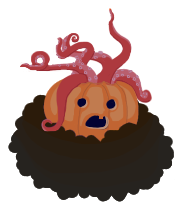
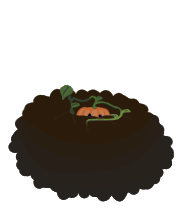
tools function

Changed region(s): [[0.1111, 0.0286, 0.8611, 0.6857]]

diff --git a/js/main.js b/js/main.js
@@ -5,18 +5,18 @@ const app = Vue.createApp({
             activeTool: null,
 
             plotsFarm:[
-                { id: 1, planted: true, stage: 3, image: './img/spideyFlower_stage3.png'},
-                { id: 2, planted: true, stage: 3, image: './img/spideyFlower_stage3.png'},
-                { id: 3, planted: true, stage: 3, image: './img/spideyFlower_stage3.png'},
-                { id: 4, planted: true, stage: 3, image: './img/spideyFlower_stage3.png'},
-                { id: 5, planted: true, stage: 3, image: './img/spideyFlower_stage3.png'},
-                { id: 6, planted: true, stage: 3, image: './img/spideyFlower_stage3.png'},
-                { id: 7, planted: true, stage: 3, image: './img/spideyFlower_stage3.png'},
-                { id: 8, planted: true, stage: 3, image: './img/spideyFlower_stage3.png'},
-                { id: 9, planted: true, stage: 3, image: './img/spideyFlower_stage3.png'},
-                { id: 10, planted: true, stage: 3, image: './img/spideyFlower_stage3.png'},
-                { id: 11, planted: true, stage: 3, image: './img/spideyFlower_stage3.png'},
-                { id: 12, planted: true, stage: 3, image: './img/spideyFlower_stage3.png'},
+                { id: 1, planted: false, stage: 0, fertilized: false, water: false, image: './img/plot_empty.png'},
+                { id: 2, planted: false, stage: 0, fertilized: false, water: false, image: './img/plot_empty.png'},
+                { id: 3, planted: false, stage: 0, fertilized: false, water: false, image: './img/plot_empty.png'},
+                { id: 4, planted: false, stage: 0, fertilized: false, water: false, image: './img/plot_empty.png'},
+                { id: 5, planted: false, stage: 0, fertilized: false, water: false, image: './img/plot_empty.png'},
+                { id: 6, planted: false, stage: 0, fertilized: false, water: false, image: './img/plot_empty.png'},
+                { id: 7, planted: false, stage: 0, fertilized: false, water: false, image: './img/plot_empty.png'},
+                { id: 8, planted: false, stage: 0, fertilized: false, water: false, image: './img/plot_empty.png'},
+                { id: 9, planted: false, stage: 0, fertilized: false, water: false, image: './img/plot_empty.png'},
+                { id: 10, planted: false, stage: 0, fertilized: false, water: false, image: './img/plot_empty.png'},
+                { id: 11, planted: false, stage: 0, fertilized: false, water: false, image: './img/plot_empty.png'},
+                { id: 12, planted: false, stage: 0, fertilized: false, water: false, image: './img/plot_empty.png'},
             ],
 
             inventory: [
@@ -58,9 +58,8 @@ const app = Vue.createApp({
             cash: 0,
 
             plantList: [
-                { id: 1, type: 'seed1', growthStage: 0, maxGrowthStage: 2, imgStages: ['./img/spideyFlower_stage1.png', './img/spideyFlower_stage2.png', './img/spideyFlower_stage3.png'] },
-                { id: 2, type: 'seed2', growthStage: 0, maxGrowthStage: 5, imgStages: ['./img/plant2_stage0.png', './img/plant2_stage1.png', './img/plant2_stage2.png', './img/plant2_stage3.png', './img/plant2_stage4.png', './img/plant2_stage5.png'] },
-                { id: 3, type: 'seed3', growthStage: 0, maxGrowthStage: 4, imgStages: ['./img/plant3_stage0.png', './img/plant3_stage1.png', './img/plant3_stage2.png', './img/plant3_stage3.png'] },
+                { id: 1, type: 'spideyFlower', imgStages: ['./img/spideyFlower_stage1.png', './img/spideyFlower_stage2.png', './img/spideyFlower_stage3.png'] },
+                { id: 2, type: 'squidPumpkin', imgStages: ['./img/squidPumpkin_stage1.png', './img/squidPumpkin_stage2.png', './img/squidPumpkin_stage3.png'] },
             ],
 
             cycleDayNight: 'night',
@@ -136,9 +135,51 @@ const app = Vue.createApp({
         }
         },
 
-        removePlant(){
-            
+        removePlant(plotId) {
+            if(this.activeTool !== "scythe") return;
+
+            if(this.plotsFarm.find(plot => plot.id === plotId)){
+                this.plotsFarm.find(plot => plot.id === plotId).planted = false;
+                this.plotsFarm.find(plot => plot.id === plotId).image = './img/plot_empty.png';
+            }
+
         },
 
+        plantInPlot(plotId, typePlant){
+           if(this.activeTool !== "plant") return;
+
+            console.log("Planting in plot:", plotId);
+
+            if(this.plotsFarm.find(plot => plot.id === plotId)){
+                this.plotsFarm.find(plot => plot.id === plotId).planted = true;
+                const plant = this.plantList.find(plant => plant.type === typePlant).imgStages[0]; // por ahora fija spideyFlower
+                this.plotsFarm.find(plot => plot.id === plotId).image = plant;
+                this.plotsFarm.find(plot => plot.id === plotId).stage=1;
+            } 
+        },
+
+        fertilizePlot(plotId, typePlant){
+            if(this.activeTool !== "fertilizer") return;
+
+            if(this.plotsFarm.find(plot => plot.id === plotId)){
+                const stagePlot = this.plotsFarm.find(plot => plot.id === plotId).stage;
+                if (stagePlot >= 3) return; // ya esta en la etapa maxima
+                const plant = this.plantList.find(plant => plant.type === typePlant).imgStages[stagePlot]; // por ahora fija spideyFlower
+                this.plotsFarm.find(plot => plot.id === plotId).image = plant;
+                this.plotsFarm.find(plot => plot.id === plotId).stage += 1;
+                this.plotsFarm.find(plot => plot.id === plotId).fertilized = true;
+
+            }
+        },
+
+        waterPlot(plotId){
+            if(this.activeTool !== "bucket") return;
+
+            if(this.plotsFarm.find(plot => plot.id === plotId)){
+                this.plotsFarm.find(plot => plot.id === plotId).water = true;
+            }
+
+            console.log("Watering plot:", plotId);
+        }
     }
 });

diff --git a/js/components/views.js b/js/components/views.js
@@ -47,22 +47,18 @@ app.component('views-game', {
         }
         ,
 
-        tryRemovePlant(idex) {
-            // funciona si la herramienta esta activa 
-            if (this.activeTool !== "scythe") return;
+        removePlant(plotId) {
+            this.$emit("remove-plant", plotId);
+        },
 
-            // obtener la imagen 
-            const img = idex.currentTarget || idex.target;
-
-            // poner clase para la animacion y luego quitar el elemento
-            img.classList.add("removing");
-            setTimeout(() => {
-                // en vez de eliminar el nodo (que hace que el grid se reordene),
-                // ocultamos la imagen para que el espacio quede reservado.
-                img.classList.remove("removing");
-                img.style.visibility = "hidden"; // mantiene el espacio en el layout
-                img.style.pointerEvents = "none"; // evitar futuros clicks
-            }, 180);
+        plantInPlot(plotId, typePlant){ 
+            this.$emit("plant-in-plot", plotId, typePlant);
+        },
+        fertilizePlot(plotId, typePlant){
+            this.$emit("fertilize-plot", plotId, typePlant);
+        },
+        waterPlot(plotId){
+            this.$emit("water-plot", plotId);
         }
 
     },
@@ -127,7 +123,11 @@ app.component('views-game', {
         <farm-panel 
         :plots-farm="plotsFarm"
         @tool-selected='selectTool' 
-        @selected-view="updateView" ></farm-panel>
+        @selected-view="updateView"
+        @remove-plant="removePlant"
+        @plant-in-plot="plantInPlot"
+        @fertilize-plot="fertilizePlot"
+        @water-plot="waterPlot"
     </div>
 
     <!-- Cauldron Panel -->

diff --git a/js/components/game/farmPanel.js b/js/components/game/farmPanel.js
@@ -20,7 +20,19 @@ app.component('farm-panel', {
         selectTool(tool) {
             this.$emit("tool-selected", tool);
             console.log("Tool selected:", tool);
-        }
+        },
+        removePlant(plotId) {
+            this.$emit("remove-plant", plotId);
+        },
+        plantInPlot(plotId, typePlant) {
+            this.$emit("plant-in-plot", plotId, typePlant);
+        },
+        fertilizePlot(plotId, typePlant){
+            this.$emit("fertilize-plot", plotId, typePlant);
+        },
+        waterPlot(plotId){
+            this.$emit("water-plot", plotId);
+        },
     },
     template: /*html*/`
     <!-- Game Wrapper -->
@@ -33,9 +45,12 @@ app.component('farm-panel', {
                     <div v-for="plot in plotsFarm" :key="plot.id">
                         <img 
                         :src="plot.image" 
-                        v-if="plot.planted"
                         class="plants" 
                         :alt="'Planta en plot ' + plot.id"
+                        @click="plantInPlot(plot.id, 'spideyFlower')"
+                        @click="fertilizePlot(plot.id, 'spideyFlower')"
+                        @click="removePlant(plot.id)"
+                        @click="waterPlot(plot.id)"
                         >
                     </div>
                     <!--<div ><img class="plants" src="./img/spideyFlower_stage3.png" alt="" @click="tryRemovePlant"></div>-->

diff --git a/index.html b/index.html
@@ -22,6 +22,10 @@
         :plots-farm="plotsFarm"
         :inventory="inventory"
         :items-store="itemsStore"
+        @remove-plant="removePlant"
+        @plant-in-plot="plantInPlot"
+        @fertilize-plot="fertilizePlot"
+        @water-plot="waterPlot"
         ></views-game>
     </div>
 
